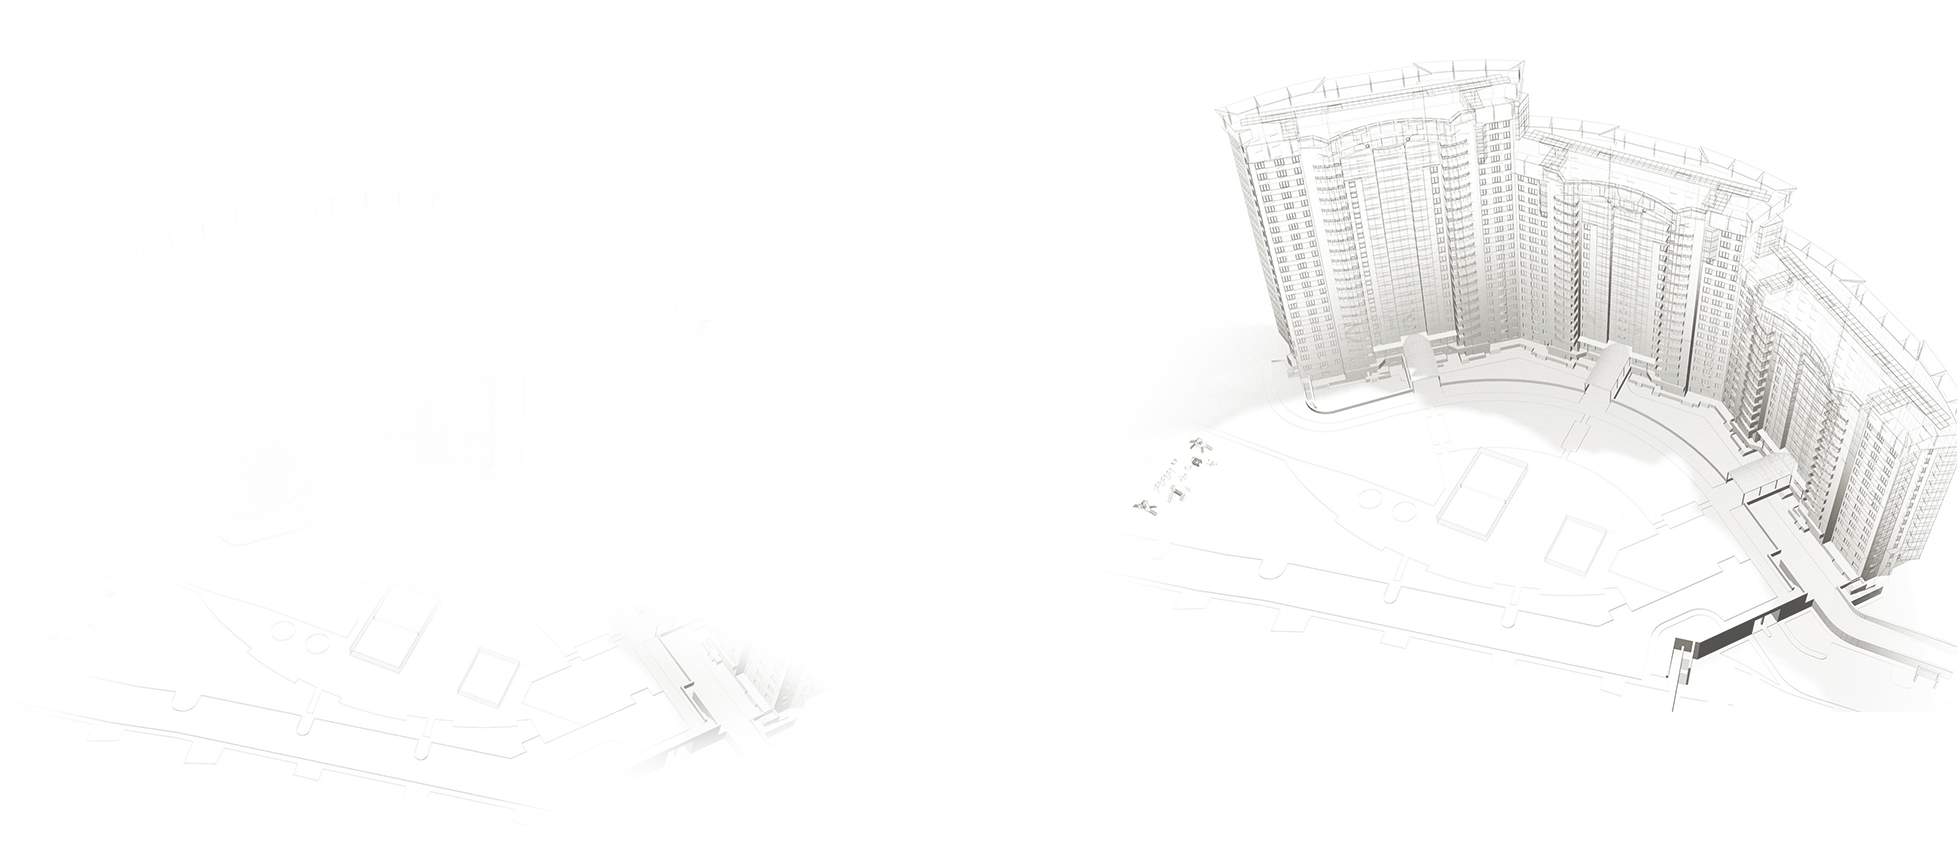
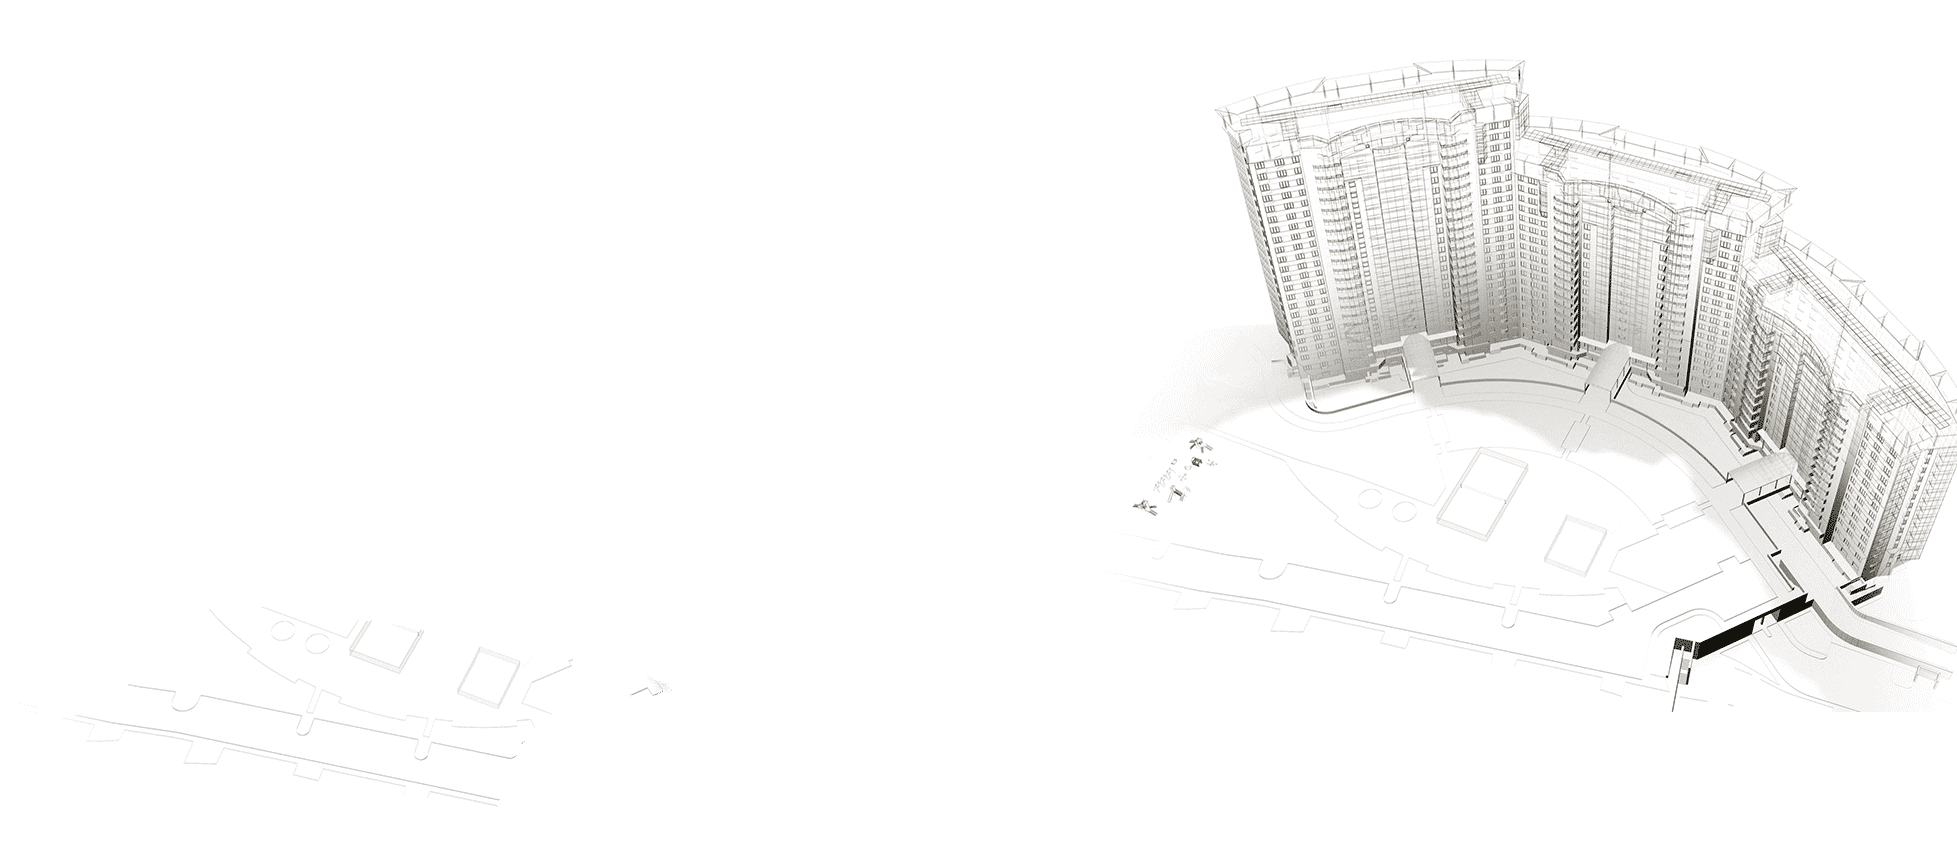
Optimize image Size

diff --git a/index.html b/index.html
@@ -139,13 +139,13 @@
 		<div class="blue europe _30px bold uppercase" style="padding-bottom:20px;">сфера применения</div>
 		<div class="big_block center_align">
 
-			<div id="left" class="inline build_block relative right" style="background-image:url(images/building_left.png);height: 308px;background-size:100%;">
+			<div id="left" class="inline build_block relative right" style="background-image:url(images/building_left.jpg);height: 308px;background-size:100%;">
 				<div class="uppercase white relative arial _24px sub__block relative sub__block_span">гражданское строительство</div>
 				<div class="uppercase white relative sub__block"><span class="bg_green arial _14px sub__block_span relative">жилые дома</span></div>
 				<div class="uppercase white relative sub__block"><span class="bg_green arial _14px sub__block_span relative">офисные здания</span></div>
 				<div class="uppercase white relative sub__block"><span class="bg_green arial _14px sub__block_span relative">торгово - развлекательные комплексы</span></div>
 				<div class="relative sub__block sub__block_bottom sub__block_span" style="padding-top:155px;"><img src="images/nova_logo_bulid.png" alt="logo" ></div>
-			</div><div id="right" class="inline build_block relative left" style="background-image:url(images/building_right.png);height: 308px;background-size:100%;">
+			</div><div id="right" class="inline build_block relative left" style="background-image:url(images/building_right.jpg);height: 308px;background-size:100%;">
 				<div class="uppercase white relative arial _24px sub__block sub__block_span">промышленное строительство</div>
 				<div class="uppercase white relative sub__block"><span class="bg_green arial _14px sub__block_span relative">спортивные сооружения - ледовые арены</span></div>
 				<div class="uppercase white relative sub__block"><span class="bg_green arial _14px sub__block_span relative">ангары и склады</span></div>

diff --git a/css/decoration.css b/css/decoration.css
@@ -60,13 +60,13 @@
 
 .gradient {
   background: linear-gradient(to bottom, #81cc9e 0%, rgba(255, 255, 255, 0) 100%);
+  margin-top:39px;
 }
 
 .bg_youtube {
-  background-image: url(../images/youtube_background.png);
-  background-repeat: no-repeat;
-  background-position: center top;
-}
+  background: url(../images/youtube_background.jpg) center  top no-repeat;
+  min-width: 960px;
+  }
 
 .bg_slider {
   background: url(../images/bg_slider.png) top left no-repeat;
